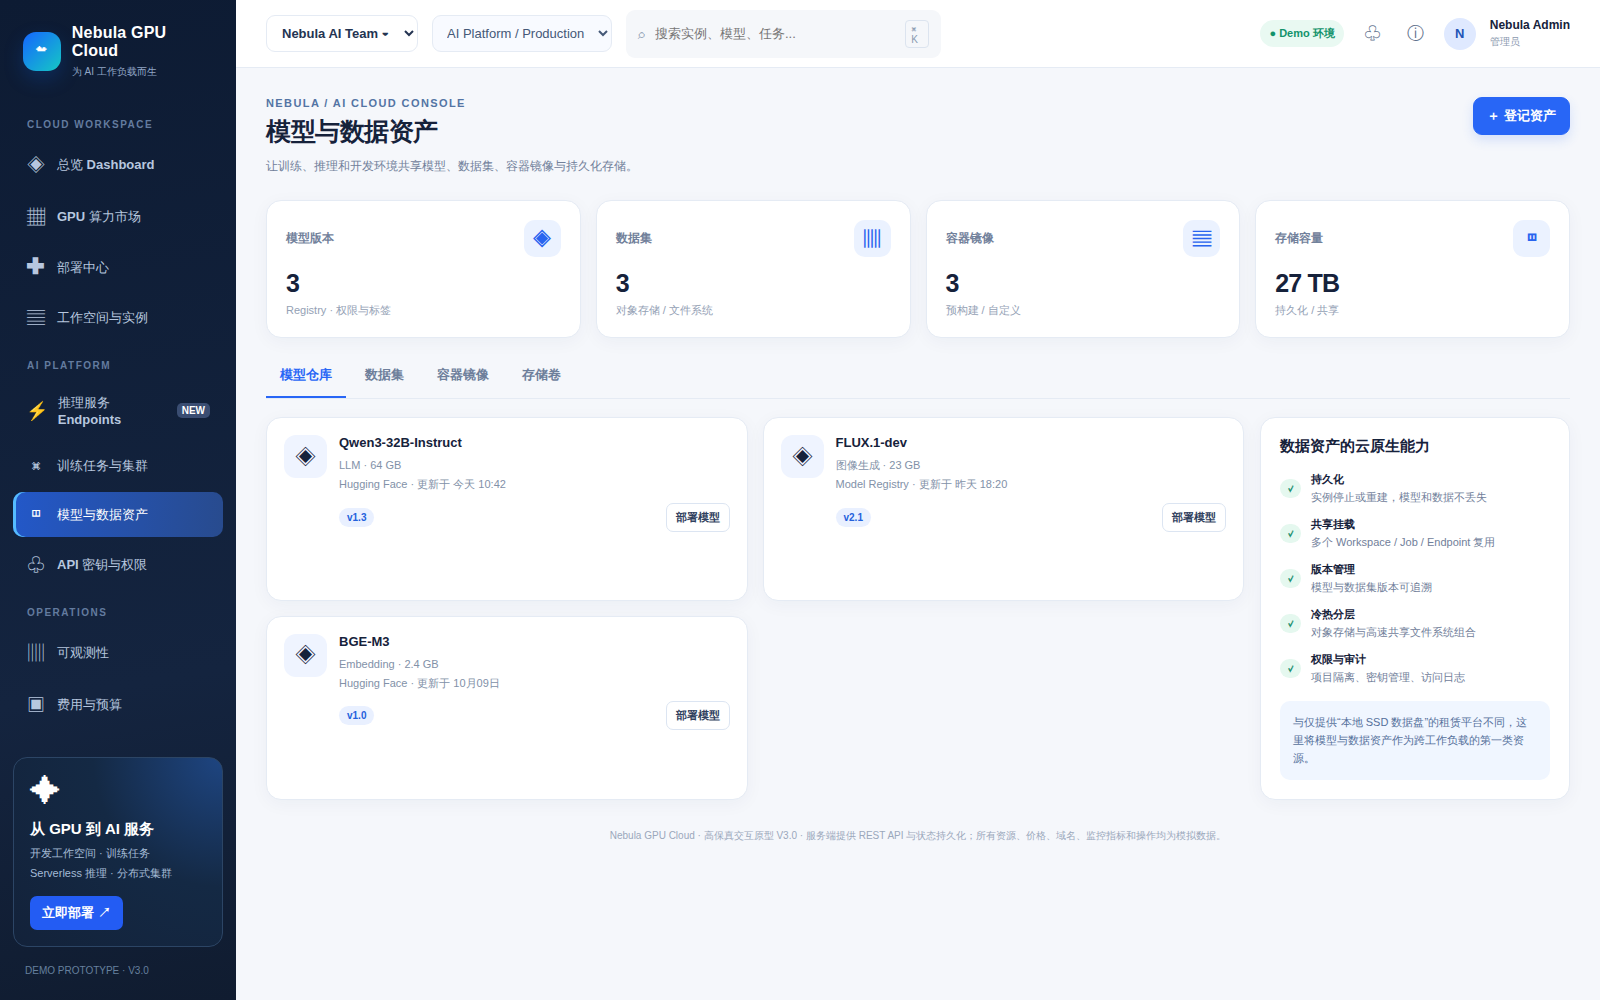
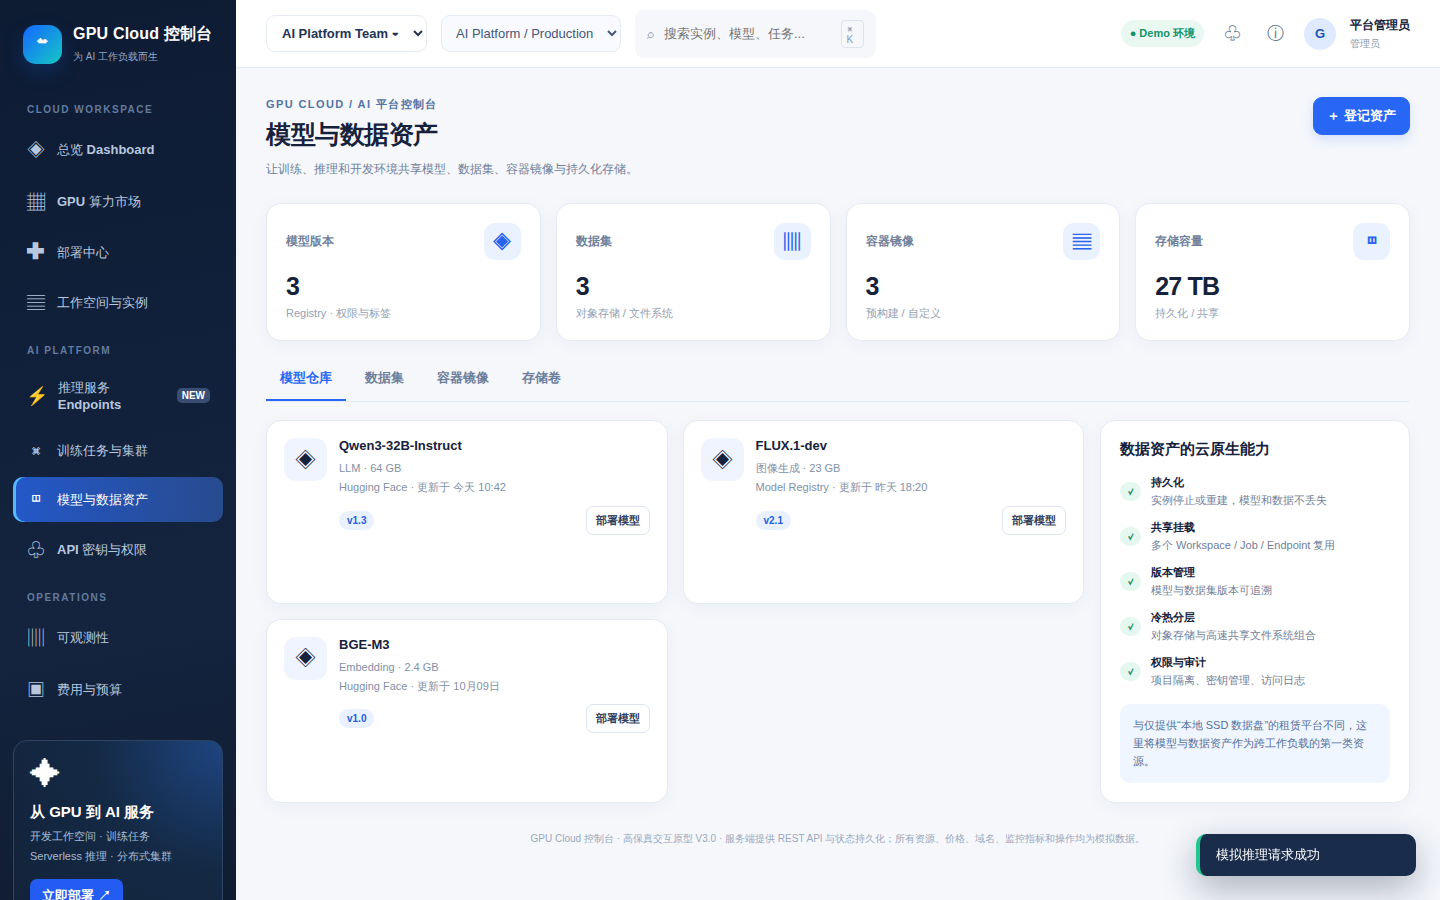
refactor: 去除 Nebula 品牌字样，统一为 GPU Cloud 控制台；修复部署中心选择工作负载类型时 dataset.mode 读取错误导致页面崩溃

diff --git a/public/js/pages/security.js b/public/js/pages/security.js
@@ -22,7 +22,7 @@ export default async function securityPage(S) {
       : t === "secrets"
       ? `<div class="card card-pad">${section("运行时 Secrets", btn("＋ 新增 Secret", "new-secret", "sm primary"))}<div class="callout mb16">参考 Modal 的 Secrets：在服务启动时向容器注入密钥，前端不展示和存储真实值。</div><div class="table-wrap"><table><thead><tr><th>变量名</th><th>可用项目</th><th>最近更新</th><th>值</th><th>操作</th></tr></thead><tbody>${secrets.map((x) => `<tr><td><strong>${esc(x.name)}</strong></td><td>${esc(x.scope)}</td><td>${esc(x.updated)}</td><td>••••••••</td><td>${btn("查看使用说明", "secret:" + x.name, "sm")}</td></tr>`).join("")}</tbody></table></div></div>`
       : t === "members"
-      ? `<div class="card card-pad">${section("团队成员与 RBAC")}<div class="table-wrap"><table><thead><tr><th>成员</th><th>角色</th><th>项目范围</th><th>权限摘要</th></tr></thead><tbody>${[["admin@nebula.example", "Owner", "全部项目", "组织设置 / 费用 / 全部资源"], ["ml-engineer@nebula.example", "Developer", "Production / Staging", "部署 / 训练 / 日志"], ["researcher@nebula.example", "Viewer", "Research / Sandbox", "只读资源与监控"]].map((x) => `<tr><td><strong>${x[0]}</strong></td><td><span class="pill blue">${x[1]}</span></td><td>${x[2]}</td><td>${x[3]}</td></tr>`).join("")}</tbody></table></div><div class="callout mt16">用户、项目、环境（dev/staging/prod）是多租户云平台的基础；实际权限必须在服务端执行，前端只做体验呈现。</div></div>`
+      ? `<div class="card card-pad">${section("团队成员与 RBAC")}<div class="table-wrap"><table><thead><tr><th>成员</th><th>角色</th><th>项目范围</th><th>权限摘要</th></tr></thead><tbody>${[["admin@gpucloud.example", "Owner", "全部项目", "组织设置 / 费用 / 全部资源"], ["ml-engineer@gpucloud.example", "Developer", "Production / Staging", "部署 / 训练 / 日志"], ["researcher@gpucloud.example", "Viewer", "Research / Sandbox", "只读资源与监控"]].map((x) => `<tr><td><strong>${x[0]}</strong></td><td><span class="pill blue">${x[1]}</span></td><td>${x[2]}</td><td>${x[3]}</td></tr>`).join("")}</tbody></table></div><div class="callout mt16">用户、项目、环境（dev/staging/prod）是多租户云平台的基础；实际权限必须在服务端执行，前端只做体验呈现。</div></div>`
       : `<div class="grid cols-2"><div class="card card-pad">${section("GPU 配额")}<div class="between"><b>88 / 128 张 GPU</b><span class="pill blue">69%</span></div><div class="progress mt12"><span style="width:69%"></span></div><div class="callout mt16">按项目控制 GPU 数量、训练集群节点、Endpoint 最大副本，避免异常扩容。</div></div><div class="card card-pad">${section("Endpoint 副本配额")}<div class="between"><b>12 / 32 副本</b><span class="pill green">38%</span></div><div class="progress mt12"><span style="width:38%;background:#10b9b0"></span></div><div class="callout mt16">建议结合预算、告警和自动扩缩容上限，形成闭环成本治理。</div></div></div>`,
   ].join("");
 }

diff --git a/public/js/shell.js b/public/js/shell.js
@@ -14,7 +14,7 @@ export function shell() {
   return [
     `<div class="app">`,
     `<aside class="sidebar">`,
-    `<div class="brand"><div class="brandlogo">☁</div><div><b>Nebula GPU Cloud</b><small>为 AI 工作负载而生</small></div></div>`,
+    `<div class="brand"><div class="brandlogo">☁</div><div><b>GPU Cloud 控制台</b><small>为 AI 工作负载而生</small></div></div>`,
     `<div class="nav-section">CLOUD WORKSPACE</div>${list.slice(0, 4).map(nav).join("")}`,
     `<div class="nav-section">AI PLATFORM</div>${list.slice(4, 8).map(nav).join("")}`,
     `<div class="nav-section">OPERATIONS</div>${list.slice(8).map(nav).join("")}`,
@@ -22,13 +22,13 @@ export function shell() {
     `</aside>`,
     `<div class="main">`,
     `<div class="topbar">`,
-    `<select class="org" aria-label="组织"><option>Nebula AI Team ▾</option></select>`,
+    `<select class="org" aria-label="组织"><option>AI Platform Team ▾</option></select>`,
     `<select class="project" data-set="project"><option ${p === "AI Platform / Production" ? "selected" : ""}>AI Platform / Production</option><option ${p === "AI Platform / Staging" ? "selected" : ""}>AI Platform / Staging</option><option ${p === "Research / Sandbox" ? "selected" : ""}>Research / Sandbox</option></select>`,
     `<div class="search-global">⌕ <input id="global-search" placeholder="搜索实例、模型、任务..."/><span class="shortcut">⌘ K</span></div>`,
     `<span class="top-spacer"></span><span class="env">● Demo 环境</span>`,
     `<button class="top-icon" title="通知" data-act="notifications">♧</button>`,
     `<button class="top-icon" title="产品说明" data-act="about">ⓘ</button>`,
-    `<span class="avatar">N</span><div class="top-name">Nebula Admin<small>管理员</small></div>`,
+    `<span class="avatar">G</span><div class="top-name">平台管理员<small>管理员</small></div>`,
     `</div>`,
     `<main class="content" id="page"></main>`,
     `</div></div>`,

diff --git a/public/js/app.js b/public/js/app.js
@@ -16,7 +16,7 @@ import billing from "./pages/billing.js";
 
 const pages = { overview, market, create: createPage, instances, endpoints, jobs, assets, security, monitor, billing };
 
-const FOOTER = `<div class="footer-note">Nebula GPU Cloud · 高保真交互原型 V3.0 · 服务端提供 REST API 与状态持久化；所有资源、价格、域名、监控指标和操作均为模拟数据。</div>`;
+const FOOTER = `<div class="footer-note">GPU Cloud 控制台 · 高保真交互原型 V3.0 · 服务端提供 REST API 与状态持久化；所有资源、价格、域名、监控指标和操作均为模拟数据。</div>`;
 
 function navigate(page) {
   S.page = page;
@@ -143,7 +143,7 @@ async function runAction(a) {
     } catch (e) { toast(e.message, "err"); }
     return;
   }
-  if (a.startsWith("copy-connect:")) return copy("ssh -i ~/.ssh/nebula_demo_key ubuntu@203.0.113.24");
+  if (a.startsWith("copy-connect:")) return copy("ssh -i ~/.ssh/demo_key ubuntu@203.0.113.24");
 
   if (a.startsWith("endpoint:")) { S.endpointSelected = a.split(":")[1]; S.endpointTab = "overview"; save(); return navigate("endpoints"); }
   if (a === "copy-curl") {
@@ -350,7 +350,7 @@ document.addEventListener("click", (e) => {
   const step = e.target.closest("[data-step]");
   if (step) { S.create.step = Number(step.dataset.step); save(); render(); return; }
   const mode = e.target.closest("[data-mode-select]");
-  if (mode) { S.create.step = 2; S.create.mode = mode.dataset.mode; S.create.name = "my-" + mode.dataset.mode + "-workload"; save(); render(); return; }
+  if (mode) { S.create.step = 2; S.create.mode = mode.dataset.modeSelect; S.create.name = "my-" + mode.dataset.modeSelect + "-workload"; save(); render(); return; }
   const im = e.target.closest("[data-image]");
   if (im) { S.create.image = im.dataset.image; save(); render(); return; }
   const t = e.target.closest("button[data-set][data-value],a[data-set][data-value]");

diff --git a/config.js b/config.js
@@ -1,11 +1,11 @@
 // 独立配置：端口、数据目录、日志目录均隔离在本工程内，不复用其他项目配置
 export const config = {
-  appName: "Nebula GPU Cloud",
-  port: Number(process.env.NEBULA_PORT || 8080),
+  appName: "GPU Cloud 控制台",
+  port: Number(process.env.GPU_CLOUD_PORT || 8080),
   host: "0.0.0.0",
   dataFile: "/opt/gdashboard/repo/data/state.json",
   logFile: "/opt/gdashboard/repo/log/server.log",
   publicDir: "/opt/gdashboard/repo/public",
   apiPrefix: "/api",
-  storageKey: "nebula_gpu_cloud_v3",
+  storageKey: "gpu_cloud_console_v3",
 };

diff --git a/server/routes/billing.js b/server/routes/billing.js
@@ -41,7 +41,7 @@ export default function billingRouter() {
     const rows = [["费用类别", "说明", "金额(元)"], ...s.bills.map((x) => [x.name, x.sub, x.cost])];
     const csv = "" + rows.map((r2) => r2.map((c) => q + String(c).replace(/"/g, q + q) + q).join(",")).join("\r\n");
     res.setHeader("Content-Type", "text/csv; charset=utf-8");
-    res.setHeader("Content-Disposition", "attachment; filename=nebula_gpu_cloud_billing.csv");
+    res.setHeader("Content-Disposition", "attachment; filename=gpu_cloud_billing.csv");
     res.send(csv);
   });
   return r;

diff --git a/public/js/ui.js b/public/js/ui.js
@@ -53,7 +53,7 @@ export function copy(text) {
 }
 
 export function header(title, sub, buttons = "") {
-  return `<div class="pagehead"><div><div class="eyebrow">NEBULA / AI CLOUD CONSOLE</div><h1>${title}</h1><p>${sub}</p></div><div class="head-actions">${buttons}</div></div>`;
+  return `<div class="pagehead"><div><div class="eyebrow">GPU CLOUD / AI 平台控制台</div><h1>${title}</h1><p>${sub}</p></div><div class="head-actions">${buttons}</div></div>`;
 }
 
 export function metric(label, value, desc, icon = "◈", trend = "") {

diff --git a/server/services/workload.js b/server/services/workload.js
@@ -106,7 +106,7 @@ export function instanceAction(s, action, id) {
     return { ok: true };
   }
   if (action === "connect") {
-    return { ok: true, connect: `ssh -i ~/.ssh/nebula_demo_key ubuntu@${x.ip}` };
+    return { ok: true, connect: `ssh -i ~/.ssh/demo_key ubuntu@${x.ip}` };
   }
   if (action === "jupyter") {
     return { ok: true, url: `https://jupyter.example.invalid/workspace/${id}` };

diff --git a/public/index.html b/public/index.html
@@ -2,7 +2,7 @@
 <html lang="zh-CN">
 <head>
 <meta charset="UTF-8"><meta name="viewport" content="width=device-width, initial-scale=1.0">
-<title>Nebula GPU Cloud — AI 云平台控制台</title>
+<title>GPU Cloud 控制台 — AI 云平台</title>
 <link rel="stylesheet" href="/styles/main.css">
 </head>
 <body>

diff --git a/public/js/store.js b/public/js/store.js
@@ -1,7 +1,7 @@
 // 客户端状态：对齐原型单一状态树 S（UI 态持久化 + 领域态来自服务端）
 import { api } from "./api.js";
 
-const STORAGE_KEY = "nebula_gpu_cloud_v3";
+const STORAGE_KEY = "gpu_cloud_console_v3";
 
 export const init = {
   page: "overview",

diff --git a/README.md b/README.md
@@ -1,4 +1,4 @@
-# Nebula GPU Cloud 控制台
+# GPU Cloud 控制台
 
 一体化 GPU 云控制台：从 GPU 选购、部署交付（工作空间 / 训练任务 / 推理 Endpoint / 集群）到实例运维、可观测性与 FinOps 成本分析。
 
